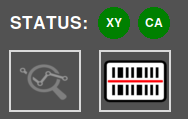
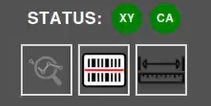
Update inspection workflow, screen layout and UV inspection documentation

diff --git a/docs/how_to/Screen-layout.md b/docs/how_to/Screen-layout.md
@@ -17,7 +17,7 @@ This area displays the connection status with the inspection platform and camera
 
 ![Start inspection button](../assets/autoprocess.png){.center}
 
-The **Inspection start** button triggers the inspection of the current **UUI** image. This buttom is available when the [Auto process button](#auto-process) is set **OFF**. This is useful to avoid spend credits when you are testing how to take pictures of your PCBAs.
+The **Inspection start** button triggers the inspection of the current **UUI** image. This button is available when the [Auto process button](#auto-process) is set **OFF**. This is useful to avoid spend credits when you are testing how to take pictures of your PCBAs.
 
 ### **Loading REFERENCE by barcode**
 
@@ -26,6 +26,12 @@ The **Inspection start** button triggers the inspection of the current **UUI** i
 ![Barcode REFERENCE loading](../assets/v7/ui-bc_ref.png){.center}
 
 This button opens a pop-up window for inserting a barcode number. When generating a REFERENCE, any [barcode it contains can be read](#barcode-area-drawing). This barcode will be associated with the REFERENCE and can be loaded using that number with this function. It is also possible to read the barcode with a handheld reader and insert it into this field. More information about this feature [here](./Barcode_reader.md#load-a-reference-by-barcode).
+
+### **Measurement tool**
+
+![Measurement button](../assets/v7/ui-status-measure-button.png){width=80, .center}
+
+This button allows you to select a region within the PCB to measure an area of interest. More information about this feature can be found [here](./Measurement_tool.md).
 
 ## **Activity log**
 

diff --git a/docs/how_to/UV_conformal_coating_inspection.md b/docs/how_to/UV_conformal_coating_inspection.md
@@ -22,7 +22,7 @@ Use the UUI capture button to open the [Live View window](../how_to/Inspection_w
 
 ## 3. Enable UV inspection
 
-In the Live View window, enable the **UV inspection option** located at the bottom of the interface.
+In the Live View window, enable the **UV inspection option** located at the bottom of the interface and start inspection.
 
 ![UV preview](../assets/v7/UV_inspection/UV_buttom.png){.center}
 
@@ -30,7 +30,7 @@ In the Live View window, enable the **UV inspection option** located at the bott
 
 Observe the PCB under UV lighting to verify the correct application and coverage of the conformal coating.
 
-![UV preview](../assets/v7/UV_inspection/UV_buttom.png){.center}
+![UV preview](../assets/v7/UV_inspection/UV_inspection.png){.center}
 
 ## Result
 

diff --git a/docs/how_to/Inspection_workflow.md b/docs/how_to/Inspection_workflow.md
@@ -42,7 +42,7 @@ In this window we have to set the images needed to cover all the PCBA.
 
 In larger PCBAs, the camera field of view may be insufficient to capture the entire board in a single image. In these cases, the system captures multiple images across the PCB and automatically stitches them together using AI into a single image ready for inspection.
 
-![Stitching process](../assets/stitching.png){width=600}
+![Stitching process](../assets/stitching.png){width=600, .center}
 
 In case you can not determine how many images are needed to cover your PCBA/panel, you can place your PCBA/panel in the middle of the inspection area and press the **AUTO** button. The system will scan the PCBA/panel and 
 **set the optimal proportions automatically.**
